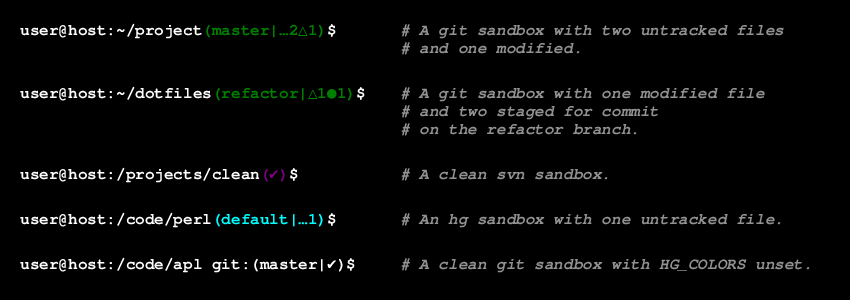
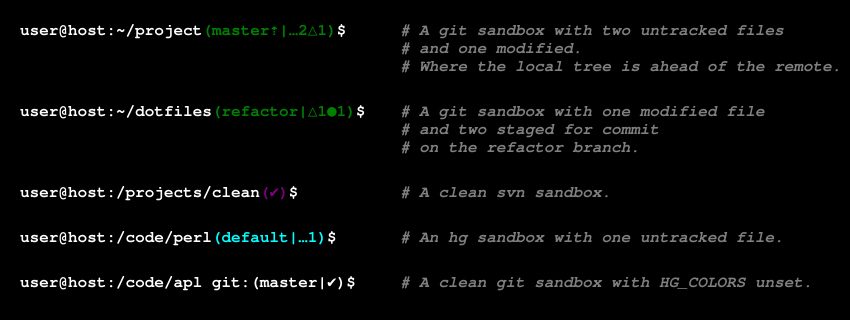
Add feature for showing remote branch ahead/behind status.

diff --git a/README.md b/README.md
@@ -44,6 +44,8 @@ Environment Variable        | Default | Description
 `BPVCS_CHANGED_INDICATOR`   | △ <br/>(U+25B3) | Indicates items that need to be committed.
 `BPVCS_STAGED_INDICATOR`    | ● <br/>(U+25CF) | Indicates items that are already staged for commit.
 `BPVCS_CLEAN_INDICATOR`     | ✔ <br/>(U+2714) | Indicates that current directory has none of the above.
+`BPVCS_AHEAD_INDICATOR`     | ⇡ <br>(U+21E1)  | Indicates that the local tree is ahead of the remote (need to push)
+`BPVCS_BEHIND_INDICATOR`    | ⇣ <br>(U+21E3)  | Indicates that the local tree is behind the remote (need to pull)
 `BPVCS_GIT_COLOR`           | `\033[0;32m` <br/>(green)  | Sequence used to color git working trees.
 `BPVCS_HG_COLOR`            | `\033[0;36m` <br/>(cyan)   | Sequence used to color hg working trees.
 `BPVCS_SVN_COLOR`           | `\033[0;35m` <br/>(purple) | Sequence used to color svn sandboxes.
@@ -115,7 +117,7 @@ Similar Projects & Inspirations
 * [sexy-bash-prompt](https://github.com/twolfson/sexy-bash-prompt) <br/>
   Has tests!  I like the delta-icon.  A bit too much color.
 * https://github.com/sindresorhus/pure <br/>
-  zsh not bash, but I like the indicators and will likely use them if I add upstream status.
+  zsh not bash, but I liked the indicators and used them for git upstream status.
 * [bash_vcs](https://github.com/mfouesneau/bash_vcs) <br/>
   Nice clean code.
 * [other projects on github with similar names](https://github.com/search?utf8=%E2%9C%93&q=bash+vcs+prompt&type=Repositories&ref=searchresults)
@@ -140,6 +142,5 @@ Future Thoughts
 These are thoughts for later.  They may or may not be implemented.
 
 * Maybe hide or abbreviate default branch names like master in git and default in hg to reduce noise in common cases.
-* Upstream ahead/behind status might be worth removing "No network" as a principle.
 * Put different vcs functions into separate files that can be conditionallly sourced?
 * Don't "expose" configuration variables with default values, just have deafult values...
